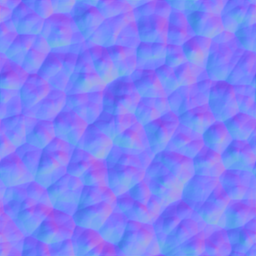
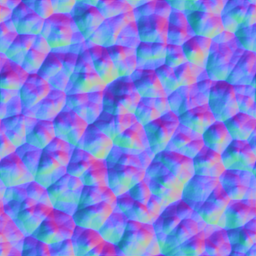
Added some flow to our water (make sure to add configurable variables)

diff --git a/project/water/Water.cpp b/project/water/Water.cpp
@@ -2,6 +2,7 @@
 #include <imgui.h>
 #include <ituGL/geometry/Mesh.h>
 #include <ituGL/asset/ShaderLoader.h>
+#include <ituGL/asset/Texture2DLoader.h>
 
 
 Water::Water(Material waterMaterial)
@@ -64,8 +65,16 @@ std::shared_ptr<Material> Water::InitializeWaterMaterial(Renderer& renderer, flo
     filteredUniforms.insert("WorldViewProjMatrix");
     filteredUniforms.insert("ElapsedTime");
 
+    Texture2DLoader textureLoader;
+    textureLoader.SetFlipVertical(true);
+    auto normalMap = textureLoader.LoadTextureShared("models/water/water-normal.png", TextureObject::FormatRGB, TextureObject::InternalFormatRGB16F);
+    auto flowMap = textureLoader.LoadTextureShared("models/water/flowmap.png", TextureObject::FormatRGBA, TextureObject::InternalFormatRGBA16F);
+
+
     // Create material
     std::shared_ptr waterMaterial = std::make_shared<Material>(shaderProgramPtr, filteredUniforms);
     waterMaterial->SetUniformValue("Color", glm::vec3(1.0f));
+    waterMaterial->SetUniformValue("NormalTexture", normalMap);
+    waterMaterial->SetUniformValue("FlowTexture", flowMap);
     return waterMaterial;
 }

diff --git a/project/water/PostFXSceneViewerApplication.cpp b/project/water/PostFXSceneViewerApplication.cpp
@@ -280,7 +280,6 @@ void PostFXSceneViewerApplication::InitializeModels()
     // Link material properties to uniforms
     waterLoader.SetMaterialProperty(ModelLoader::MaterialProperty::DiffuseColor, "Color");
     waterLoader.SetMaterialProperty(ModelLoader::MaterialProperty::DiffuseTexture, "ColorTexture");
-    waterLoader.SetMaterialProperty(ModelLoader::MaterialProperty::NormalTexture, "NormalTexture");
     std::shared_ptr<Model> waterPlane = waterLoader.LoadShared("models/water/water_plane.obj");
 
     //m_scene.AddSceneNode(std::make_shared<SceneModel>("cannon", cannonModel));
